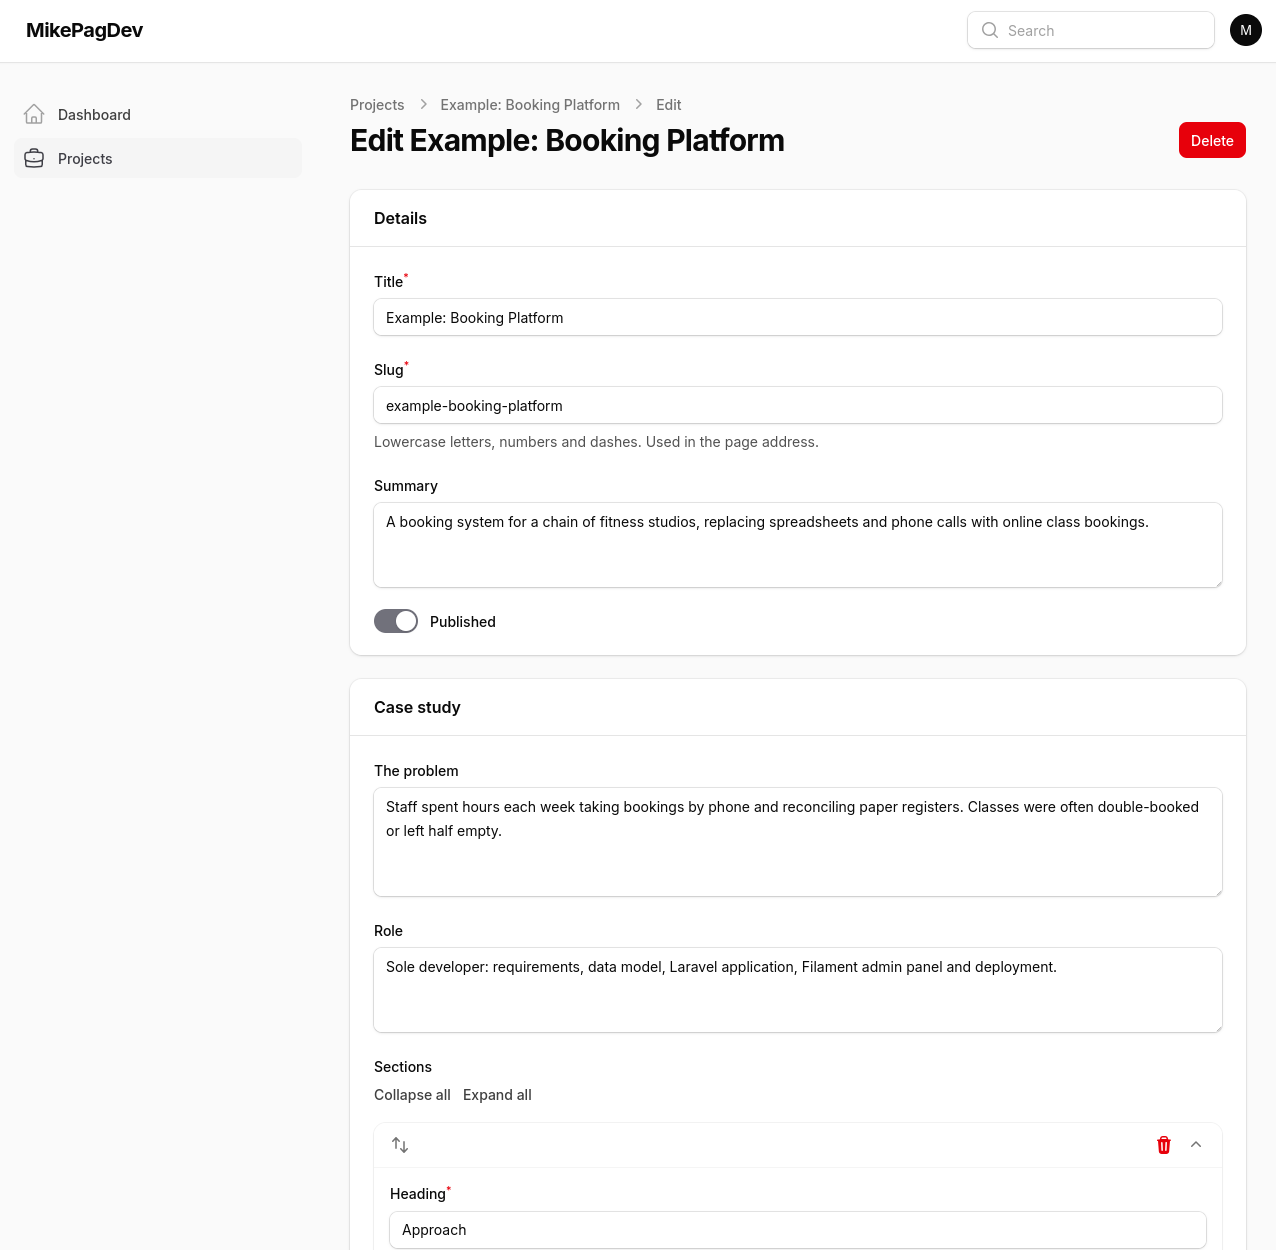
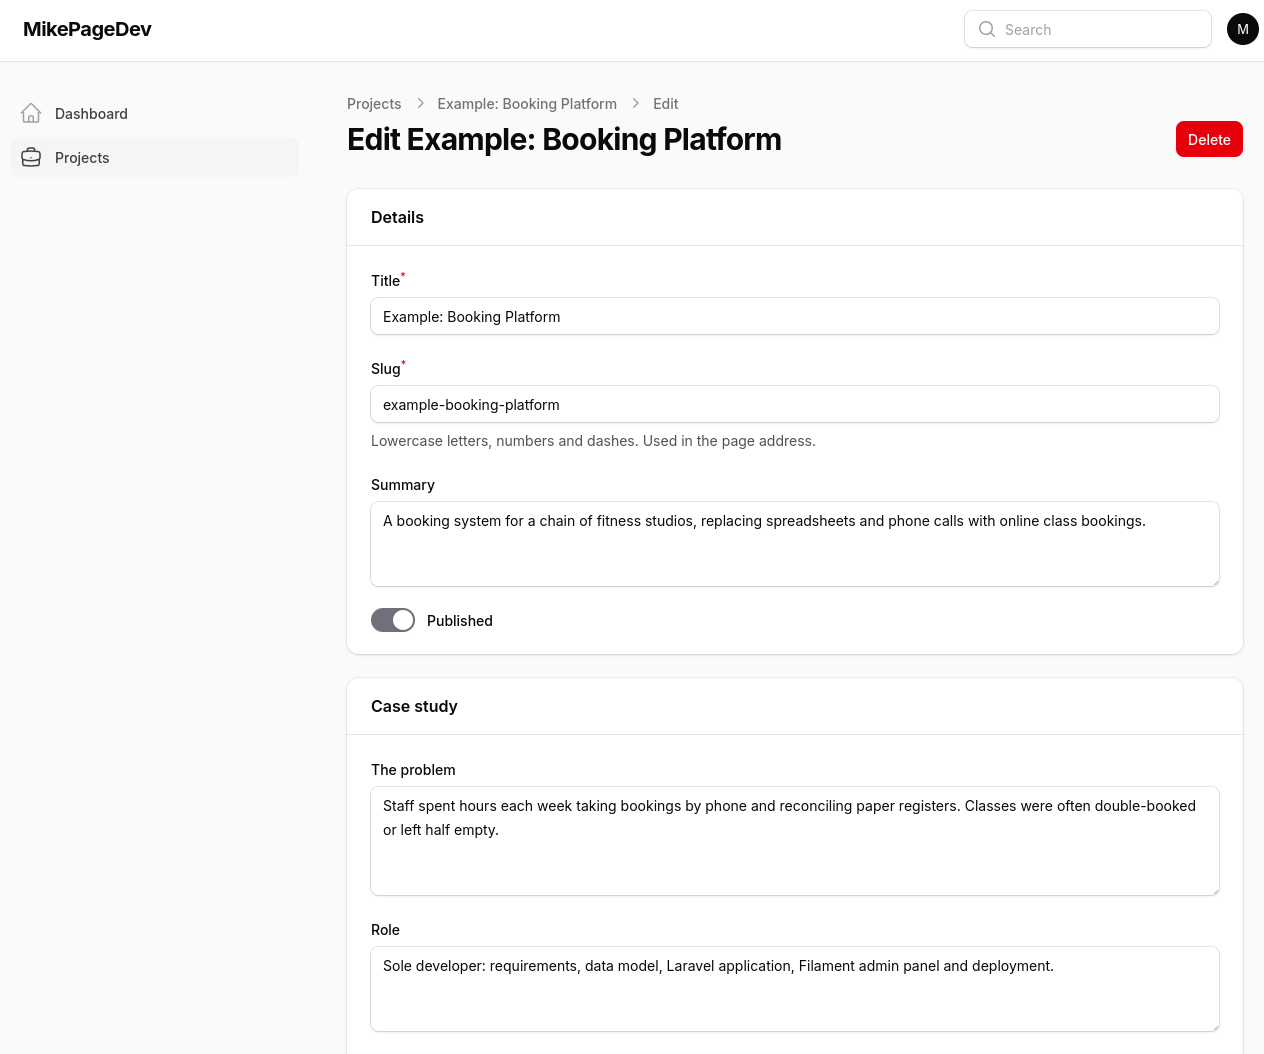
Disallowed SVGs uploads for screen shots.
Replaces readme images and added "illuminate/database": "^13.0", to composer.json

diff --git a/tests/ProjectResourceTest.php b/tests/ProjectResourceTest.php
@@ -140,6 +140,27 @@ class ProjectResourceTest extends TestCase
         $undoRepeaterFake();
     }
 
+    public function test_svg_screenshots_are_rejected(): void
+    {
+        $undoRepeaterFake = Repeater::fake();
+
+        $svg = UploadedFile::fake()->createWithContent(
+            'evil.svg',
+            '<svg xmlns="http://www.w3.org/2000/svg"><script>alert(1)</script></svg>',
+        );
+
+        Livewire::test(CreateProject::class)
+            ->fillForm($this->validData([
+                'images' => [['path' => [$svg], 'alt' => 'Evil']],
+            ]))
+            ->call('create')
+            ->assertHasFormErrors(['images.0.path']);
+
+        $undoRepeaterFake();
+
+        $this->assertSame(0, Project::query()->count());
+    }
+
     public function test_editing_without_changing_the_slug_saves(): void
     {
         $project = Project::factory()->create(['slug' => 'demo-app', 'title' => 'Demo App']);

diff --git a/src/Filament/Resources/Projects/Schemas/ProjectForm.php b/src/Filament/Resources/Projects/Schemas/ProjectForm.php
@@ -63,9 +63,10 @@ class ProjectForm
                         ->schema([
                             FileUpload::make('path')
                                 ->label('Image')
-                                ->image()
+                                ->acceptedFileTypes(['image/jpeg', 'image/png', 'image/webp', 'image/avif', 'image/gif'])
                                 ->required()
                                 ->maxSize(5120)
+                                ->helperText('JPEG, PNG, WebP, AVIF or GIF, up to 5 MB.')
                                 ->disk(config()->string('filament-portfolio.disk'))
                                 ->directory(config()->string('filament-portfolio.directory'))
                                 ->visibility('public'),

diff --git a/CHANGELOG.md b/CHANGELOG.md
@@ -2,6 +2,22 @@
 
 All notable changes to this package are documented here. The format is based on [Keep a Changelog](https://keepachangelog.com/en/1.1.0/), and this project uses [Semantic Versioning](https://semver.org/spec/v2.0.0.html).
 
+## [1.0.1] - 2026-11-10
+
+### Added
+
+- The screenshot upload field lists the accepted formats and the 5 MB size limit.
+
+### Changed
+
+- Requires `illuminate/database` 13 or above, so the package no longer installs on older Laravel versions.
+- Updated the README screenshots of the projects table and project form.
+- Removed the front-end screenshots, which belong to `portfolio-frontend`.
+
+### Security
+
+- Screenshot uploads now accept only JPEG, PNG, WebP, AVIF and GIF. SVG files are rejected because they can contain embedded JavaScript.
+
 ## [1.0.0] - 2026-11-06
 
 ### Added
